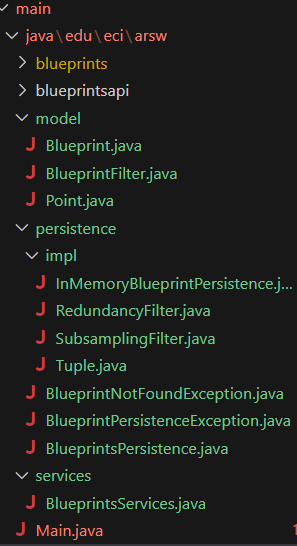
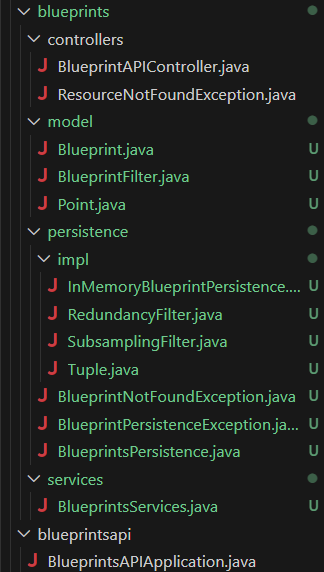
corrección de paquetes

diff --git a/README.md b/README.md
@@ -1,10 +1,9 @@
 ## Lab ARSW4
 
 ## Daniel Ricardo Ruge Gomez
-### Taller
 
 #### 1
 
-Integración del proyecto base suministrado sin archivos de configuración (por eso falla main)
+Integración del proyecto base suministrado sin archivos de configuración
 
 ![alt text](./img/media/image.png)
